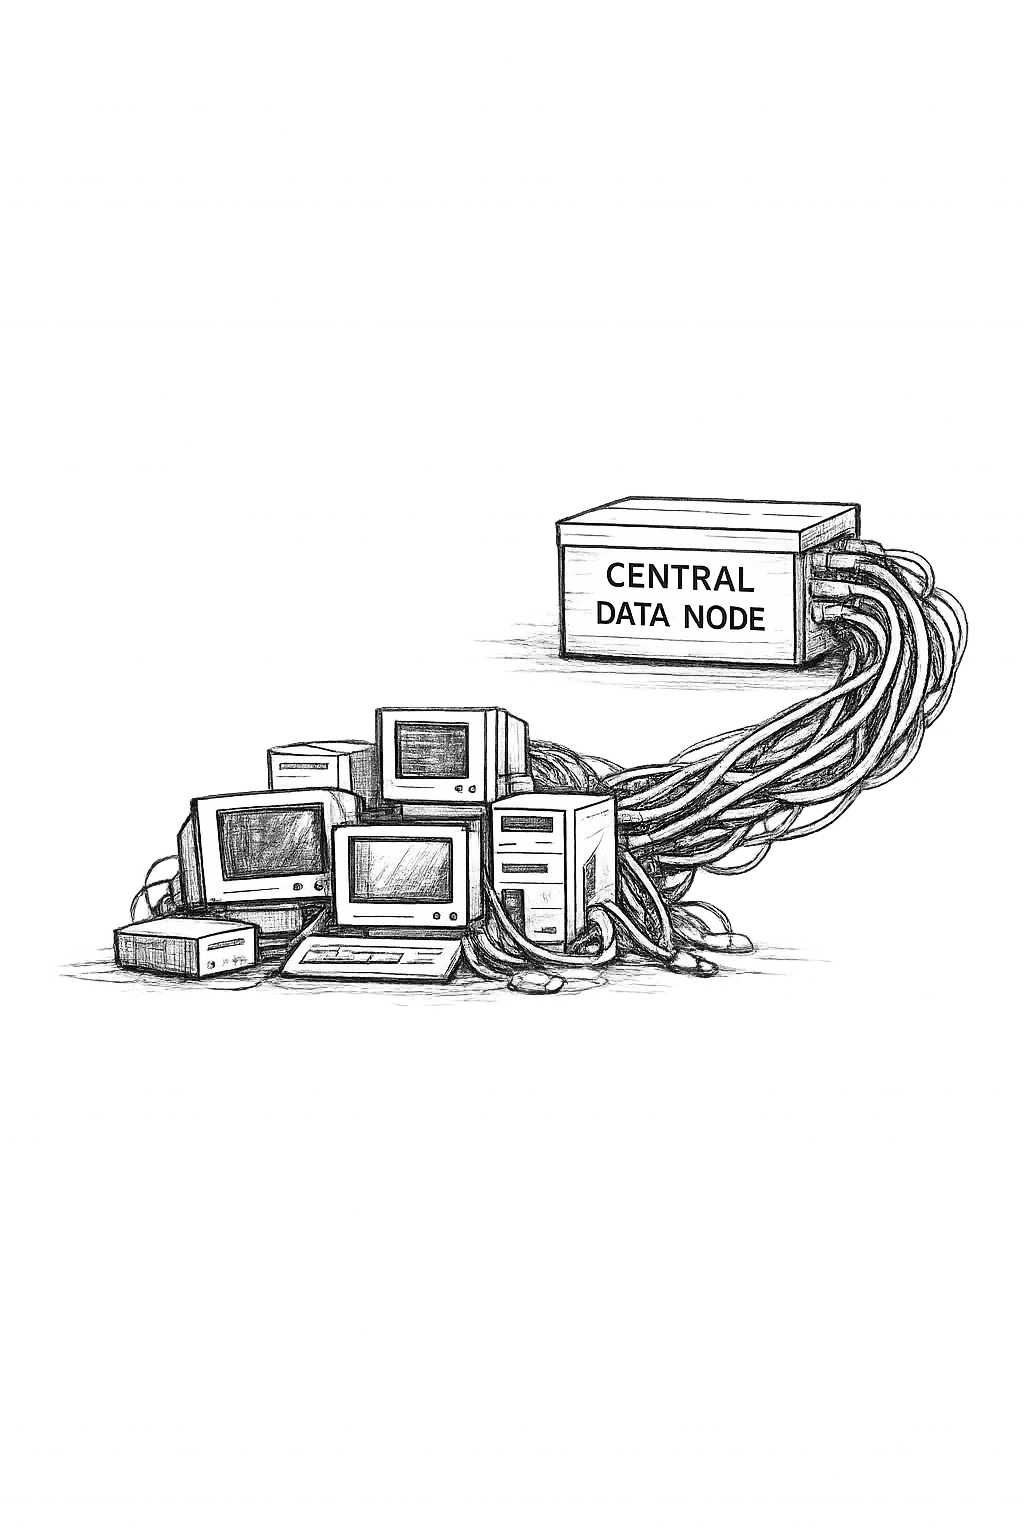
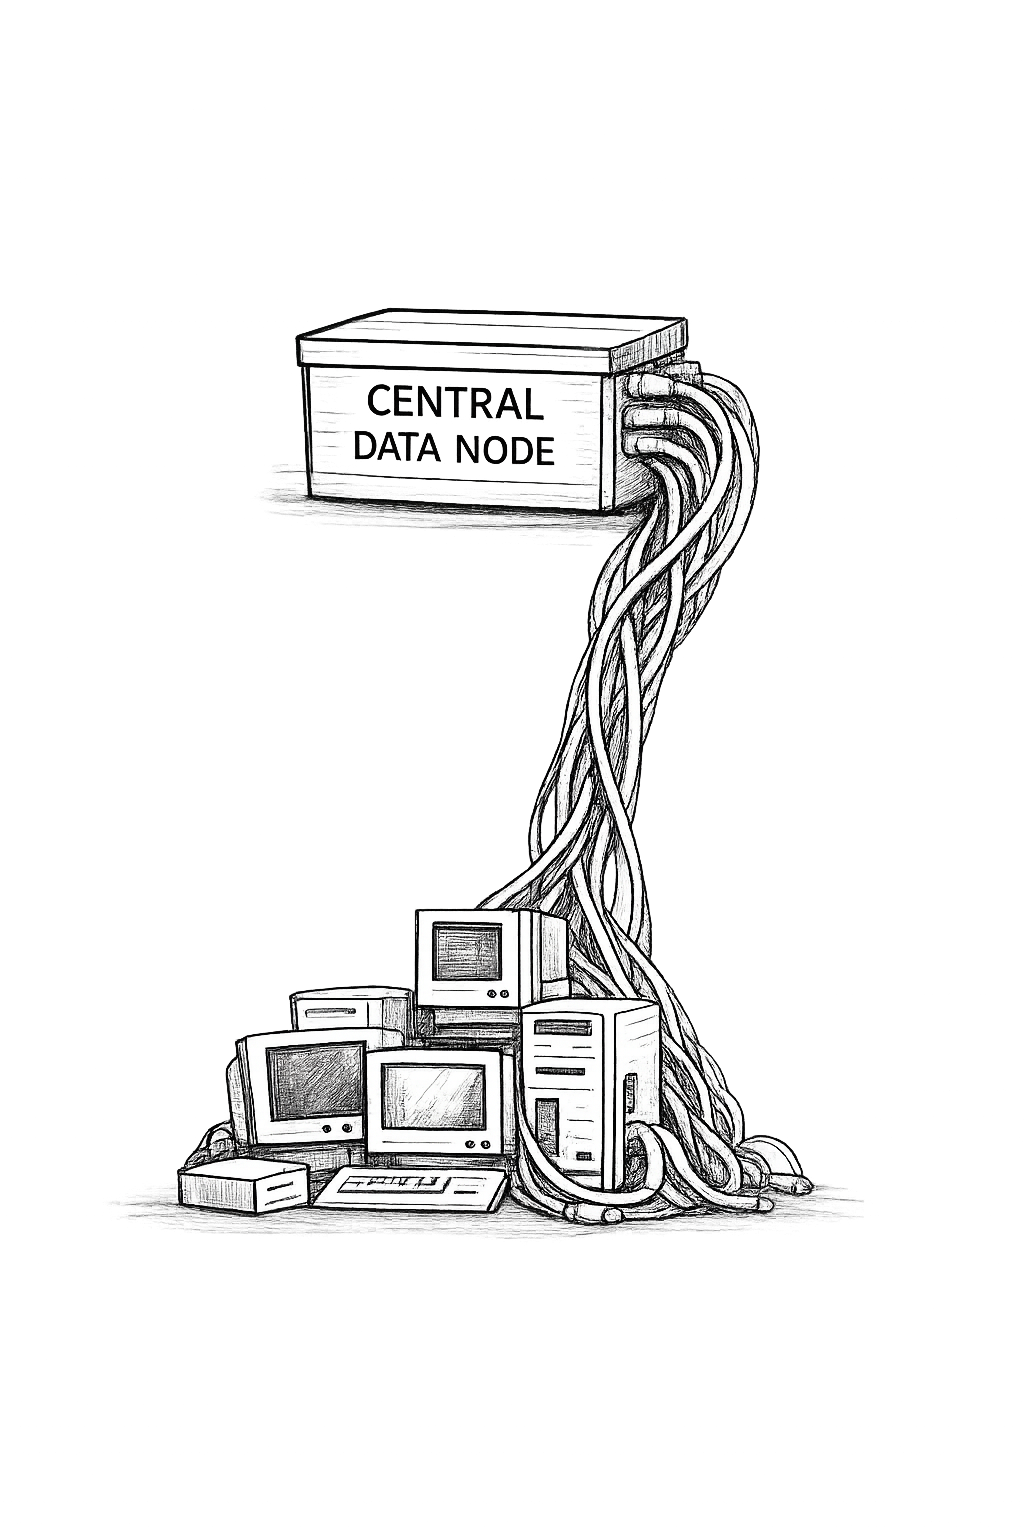
feat: stamp de status en project cards (Finalizado / En progreso) (#5)
- Tag handwritten con borde discontinuo y rotación ligera junto al chevron,
  visible en estado abierto y cerrado del accordion.
- Verde para finalizados, ámbar para en progreso.
- Casos 07/08/09 marcados como 'in_progress' y su subtitle de resultados
  pasa a 'Resultados esperados' / 'Expected Outcomes'.
- Outcomes de los 3 WIP reformulados en clave cualitativa (sin métricas
  inventadas) para coherencia con el tag.

Refactor menor de Projects.js: tabla PROJECT_META + map para evitar
repetir 9 bloques casi idénticos.

Incluye también un refresh del PNG de project-7 (regeneración local).

Changed region(s): [[0.0625, 0.1875, 0.9375, 0.8125]]

diff --git a/app/data/Projects.js b/app/data/Projects.js
@@ -1,74 +1,25 @@
-export const getProjectsData = (dict) => [
-  {
-    id: "01",
-    title: dict.projects.case_study_01.title,
-    challenge: dict.projects.case_study_01.challenge,
-    idea: dict.projects.case_study_01.idea,
-    outcome: dict.projects.case_study_01.outcome,
-    image: "/project/project-1.svg",
-  },
-  {
-    id: "02",
-    title: dict.projects.case_study_02.title,
-    challenge: dict.projects.case_study_02.challenge,
-    idea: dict.projects.case_study_02.idea,
-    outcome: dict.projects.case_study_02.outcome,
-    image: "/project/project-2.svg",
-  },
-  {
-    id: "03",
-    title: dict.projects.case_study_03.title,
-    challenge: dict.projects.case_study_03.challenge,
-    idea: dict.projects.case_study_03.idea,
-    outcome: dict.projects.case_study_03.outcome,
-    image: "/project/project-3.svg",
-  },
-  {
-    id: "04",
-    title: dict.projects.case_study_04.title,
-    challenge: dict.projects.case_study_04.challenge,
-    idea: dict.projects.case_study_04.idea,
-    outcome: dict.projects.case_study_04.outcome,
-    image: "/project/project-4.svg",
-  },
-  {
-    id: "05",
-    title: dict.projects.case_study_05.title,
-    challenge: dict.projects.case_study_05.challenge,
-    idea: dict.projects.case_study_05.idea,
-    outcome: dict.projects.case_study_05.outcome,
-    image: "/project/project-5.svg",
-  },
-  {
-    id: "06",
-    title: dict.projects.case_study_06.title,
-    challenge: dict.projects.case_study_06.challenge,
-    idea: dict.projects.case_study_06.idea,
-    outcome: dict.projects.case_study_06.outcome,
-    image: "/project/project-6.svg",
-  },
-  {
-    id: "07",
-    title: dict.projects.case_study_07.title,
-    challenge: dict.projects.case_study_07.challenge,
-    idea: dict.projects.case_study_07.idea,
-    outcome: dict.projects.case_study_07.outcome,
-    image: "/project/project-7.png",
-  },
-  {
-    id: "08",
-    title: dict.projects.case_study_08.title,
-    challenge: dict.projects.case_study_08.challenge,
-    idea: dict.projects.case_study_08.idea,
-    outcome: dict.projects.case_study_08.outcome,
-    image: "/project/project-8.png",
-  },
-  {
-    id: "09",
-    title: dict.projects.case_study_09.title,
-    challenge: dict.projects.case_study_09.challenge,
-    idea: dict.projects.case_study_09.idea,
-    outcome: dict.projects.case_study_09.outcome,
-    image: "/project/project-9.png",
-  },
+const PROJECT_META = [
+  { id: "01", image: "/project/project-1.svg", status: "completed" },
+  { id: "02", image: "/project/project-2.svg", status: "completed" },
+  { id: "03", image: "/project/project-3.svg", status: "completed" },
+  { id: "04", image: "/project/project-4.svg", status: "completed" },
+  { id: "05", image: "/project/project-5.svg", status: "completed" },
+  { id: "06", image: "/project/project-6.svg", status: "completed" },
+  { id: "07", image: "/project/project-7.png", status: "in_progress" },
+  { id: "08", image: "/project/project-8.png", status: "in_progress" },
+  { id: "09", image: "/project/project-9.png", status: "in_progress" },
 ];
+
+export const getProjectsData = (dict) =>
+  PROJECT_META.map(({ id, image, status }) => {
+    const cs = dict.projects[`case_study_${id}`];
+    return {
+      id,
+      image,
+      status,
+      title: cs.title,
+      challenge: cs.challenge,
+      idea: cs.idea,
+      outcome: cs.outcome,
+    };
+  });

diff --git a/app/components/ProjectCard.js b/app/components/ProjectCard.js
@@ -1,7 +1,7 @@
 import Image from "next/image";
 import { ChevronDown } from "lucide-react";
 
-export default function ProjectCard({ project, isOpen, onClick, dict }) {
+export default function ProjectCard({ project, isOpen, onClick, dict, priority = false }) {
   return (
     <div
       onClick={onClick}
@@ -19,8 +19,8 @@ export default function ProjectCard({ project, isOpen, onClick, dict }) {
 
       <div className="py-4 px-6">
         {/* CABECERA: Título Horizontal */}
-        <div className="flex justify-between items-center">
-          <div className="flex justify-start items-start gap-4">
+        <div className="flex justify-between items-center gap-3">
+          <div className="flex justify-start items-start gap-4 min-w-0">
             <span
               className={`font-black font-hand text-lg md:text-2xl lg:text-4xl ${isOpen ? "text-red-500 pt-2" : "text-gray-400"}`}
             >
@@ -33,13 +33,27 @@ export default function ProjectCard({ project, isOpen, onClick, dict }) {
             </h3>
           </div>
 
-          <div
-            className={`transition-transform duration-500 ${isOpen ? "rotate-180" : "rotate-0"}`}
-          >
-            <ChevronDown
-              size={24}
-              className={isOpen ? "text-red-500" : "text-gray-400"}
-            />
+          <div className="flex items-center gap-3 flex-none">
+            {project.status && dict.projects.status?.[project.status] && (
+              <span
+                className={`font-hand text-sm md:text-base lg:text-xl px-3 py-0.5 -rotate-2 select-none border-2 border-dashed rounded-md transition-opacity duration-500 ${
+                  project.status === "in_progress"
+                    ? "text-amber-600 border-amber-500"
+                    : "text-green-700 border-green-600"
+                } ${isOpen ? "opacity-100" : "opacity-60"}`}
+              >
+                {dict.projects.status[project.status]}
+              </span>
+            )}
+
+            <div
+              className={`transition-transform duration-500 ${isOpen ? "rotate-180" : "rotate-0"}`}
+            >
+              <ChevronDown
+                size={24}
+                className={isOpen ? "text-red-500" : "text-gray-400"}
+              />
+            </div>
           </div>
         </div>
 
@@ -55,6 +69,8 @@ export default function ProjectCard({ project, isOpen, onClick, dict }) {
                   src={project.image}
                   alt={project.title}
                   fill
+                  sizes="(max-width: 768px) 90vw, 33vw"
+                  priority={priority}
                   className="object-contain"
                 />
               </div>
@@ -81,7 +97,9 @@ export default function ProjectCard({ project, isOpen, onClick, dict }) {
 
                 <div>
                   <p className="font-hand text-xl md:text-2xl lg:text-3xl font-black text-red-500 mb-1">
-                    {dict.projects.subtitle_results}
+                    {project.status === "in_progress"
+                      ? dict.projects.subtitle_results_expected
+                      : dict.projects.subtitle_results}
                   </p>
                   <p className="text-gray-900 text-base leading-5 md:text-lg md:leading-6 lg:text-2xl lg:leading-8">
                     {project.outcome}

diff --git a/app/components/ProjectList.js b/app/components/ProjectList.js
@@ -8,13 +8,14 @@ export default function ProjectsList({ projects, dict }) {
 
   return (
     <div className="w-full flex flex-col py-2">
-      {projects.map((project) => (
+      {projects.map((project, index) => (
         <ProjectCard
           key={project.id}
           project={project}
           dict={dict}
           isOpen={openId === project.id}
           onClick={() => setOpenId(project.id)}
+          priority={index === 0}
         />
       ))}
     </div>
